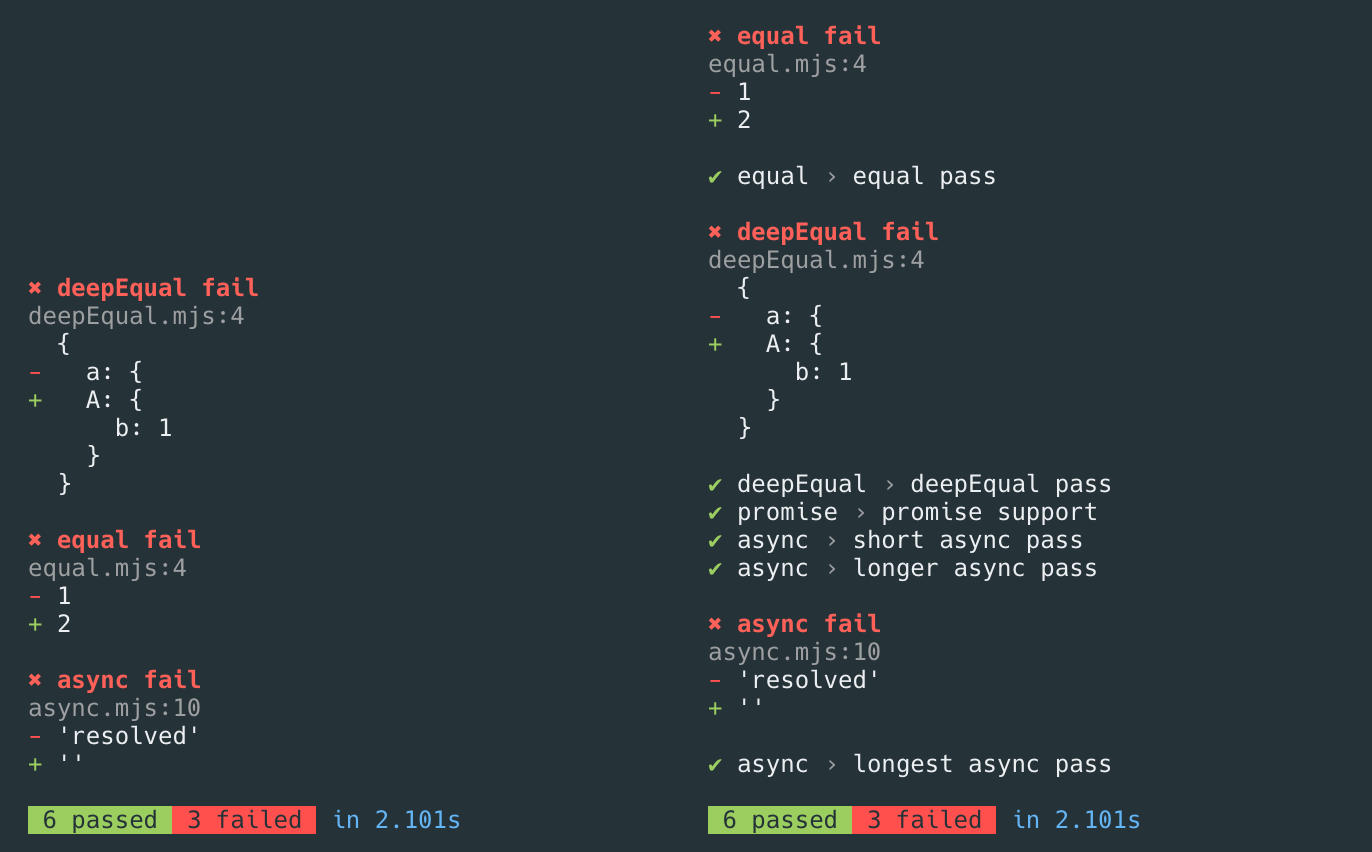
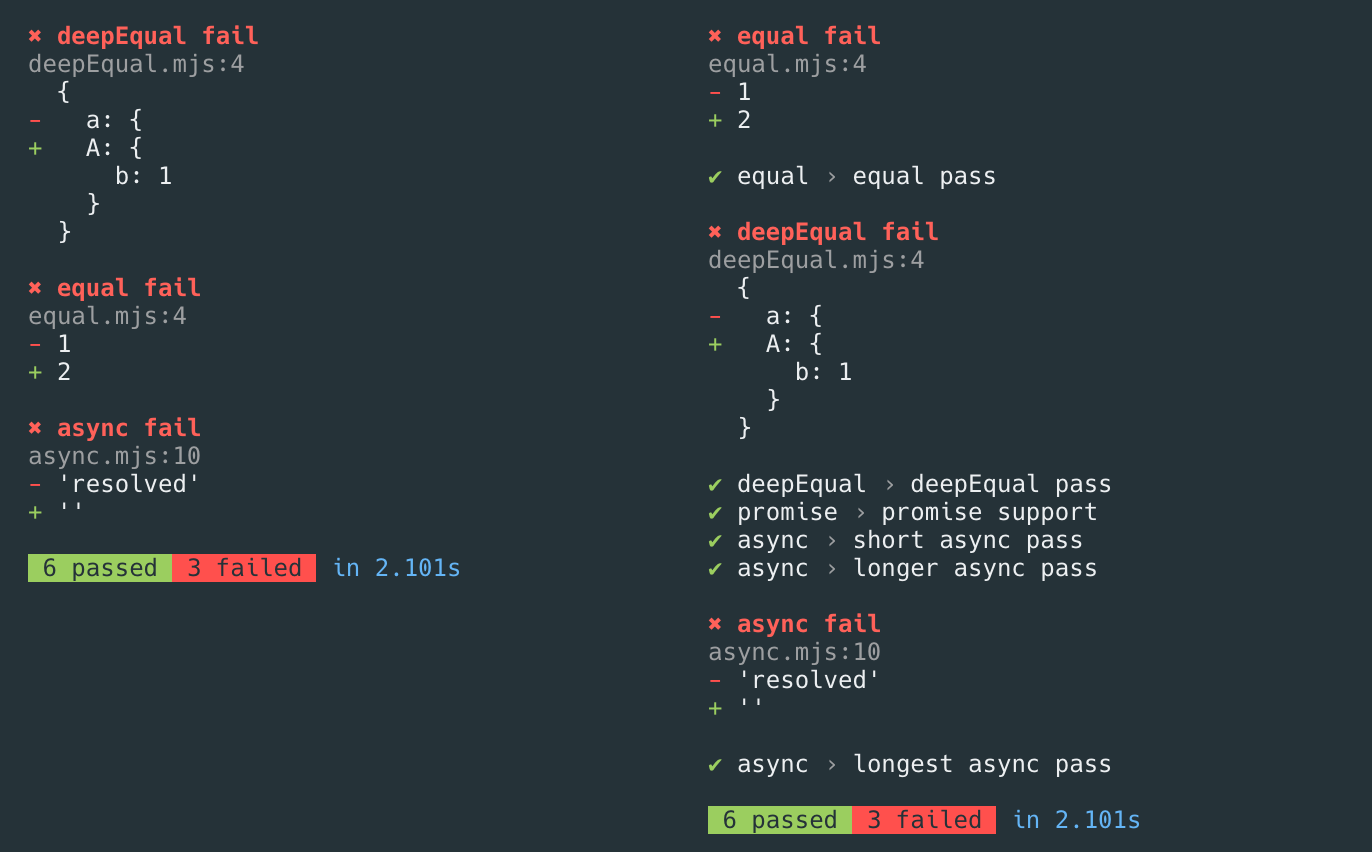
Improve the readme

diff --git a/readme.md b/readme.md
@@ -4,8 +4,6 @@
 
 A tiny, zero configuration, zero dependency test runner for ECMAScript Modules. For those wanting to get started quickly—and if you need to switch to the bigger guns, *your test are already written in a compatible syntax*.
 
-<img src="./oletus-reporters.png">
-
 ## Test Syntax
 
 ```js
@@ -56,6 +54,12 @@ test('bar', async t => {
 ```
 
 ### `npm test` away!
+
+## Reporters
+
+Oletus has a *concise reporter* on local runs and a *verbose reporter* on CI environments.
+<img src="./oletus-reporters.png">
+
 
 ## API
 
